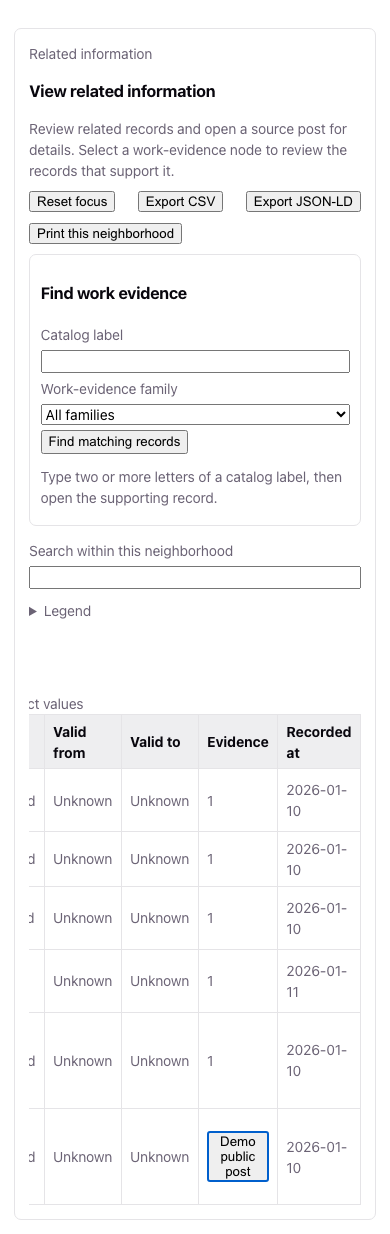
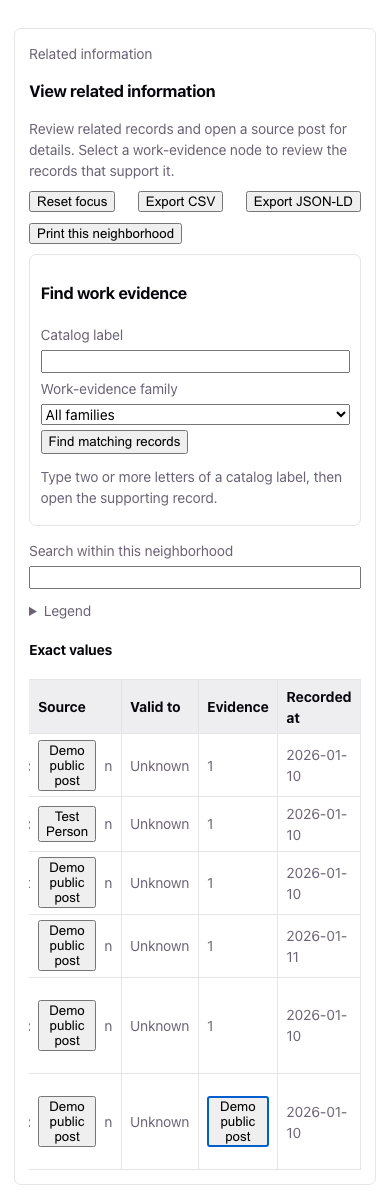
fix(voice): keep carrying post visible on mobile

diff --git a/frontend/src/components/OntologyExplorer.tsx b/frontend/src/components/OntologyExplorer.tsx
@@ -538,29 +538,28 @@ function OntologyExactValueTable({
     <div
       className="ontology-exact-values"
       role="region"
-      tabIndex={0}
       aria-label={t("Exact values")}
     >
       <h4>{t("Exact values")}</h4>
       {payload.exact_value_rows.length === 0 ? (
         <p>{t("No related information is available. Open a visible post next.")}</p>
       ) : (
-        <table>
-          <caption>{t("Exact values")}</caption>
-          <thead>
-            <tr>
-              <th>{t("Source")}</th>
-              <th>{t("Property")}</th>
-              <th>{t("Target")}</th>
-              <th>{t("Truth status")}</th>
-              <th>{t("Valid from")}</th>
-              <th>{t("Valid to")}</th>
-              <th>{t("Evidence")}</th>
-              <th>{t("Recorded at")}</th>
-            </tr>
-          </thead>
-          <tbody>
-            {payload.exact_value_rows.map((row) => {
+        <div className="ontology-exact-values-scroll" tabIndex={0}>
+          <table aria-label={t("Exact values")}>
+            <thead>
+              <tr>
+                <th>{t("Source")}</th>
+                <th>{t("Property")}</th>
+                <th>{t("Target")}</th>
+                <th>{t("Truth status")}</th>
+                <th>{t("Valid from")}</th>
+                <th>{t("Valid to")}</th>
+                <th>{t("Evidence")}</th>
+                <th>{t("Recorded at")}</th>
+              </tr>
+            </thead>
+            <tbody>
+              {payload.exact_value_rows.map((row) => {
               const derivationEvidencePostId =
                 row.property_code === "hasVoiceAssignment"
                   ? derivationEvidenceByVoice.get(`${row.source_node_id}\u0000${row.target_node_id}`)
@@ -605,9 +604,10 @@ function OntologyExactValueTable({
                   <td>{row.recorded_at.slice(0, 10)}</td>
                 </tr>
               );
-            })}
-          </tbody>
-        </table>
+              })}
+            </tbody>
+          </table>
+        </div>
       )}
     </div>
   );

diff --git a/frontend/src/components/OntologyExplorer.test.tsx b/frontend/src/components/OntologyExplorer.test.tsx
@@ -138,6 +138,24 @@ function neighborhood(overrides: Partial<OntologyNeighborhoodPayload> = {}): Ont
 }
 
 describe("OntologyExplorer", () => {
+  it("keeps the exact-value heading outside the focusable horizontal scroller", () => {
+    const { container } = render(
+      <OntologyExplorer
+        focusNodeType="node_post"
+        focusNodeId={POST_ID}
+        neighborhood={neighborhood()}
+      />,
+    );
+
+    const region = screen.getByRole("region", { name: "Exact values" });
+    const heading = screen.getByRole("heading", { name: "Exact values" });
+    const scroller = container.querySelector(".ontology-exact-values-scroll");
+    expect(region).toContainElement(heading);
+    expect(scroller).toHaveAttribute("tabindex", "0");
+    expect(scroller).toContainElement(screen.getByRole("table", { name: "Exact values" }));
+    expect(scroller).not.toContainElement(heading);
+  });
+
   it("renders a project node with a text-labeled diamond", () => {
     const payload = neighborhood();
     const projectNode = {

diff --git a/frontend/src/App.css b/frontend/src/App.css
@@ -1369,13 +1369,17 @@
 .ontology-exact-values {
   margin-top: 1rem;
   max-width: 100%;
+}
+
+.ontology-exact-values-scroll {
+  max-width: 100%;
   overflow-x: auto;
   overscroll-behavior-inline: contain;
   scrollbar-gutter: stable;
   -webkit-overflow-scrolling: touch;
 }
 
-.ontology-exact-values:focus-visible {
+.ontology-exact-values-scroll:focus-visible {
   outline: 2px solid var(--color-focus-border);
   outline-offset: 2px;
   border-radius: var(--radius-control);
@@ -1391,6 +1395,19 @@
   border-bottom: 1px solid var(--color-table-border);
   padding: 0.4rem 0.6rem;
   text-align: left;
+}
+
+.ontology-exact-values th:first-child,
+.ontology-exact-values td:first-child {
+  position: sticky;
+  left: 0;
+  z-index: 1;
+  background: var(--surface, #fff);
+}
+
+.ontology-exact-values th:first-child {
+  z-index: 2;
+  background: var(--color-table-th-bg);
 }
 
 .ontology-exact-values .is-selected {
